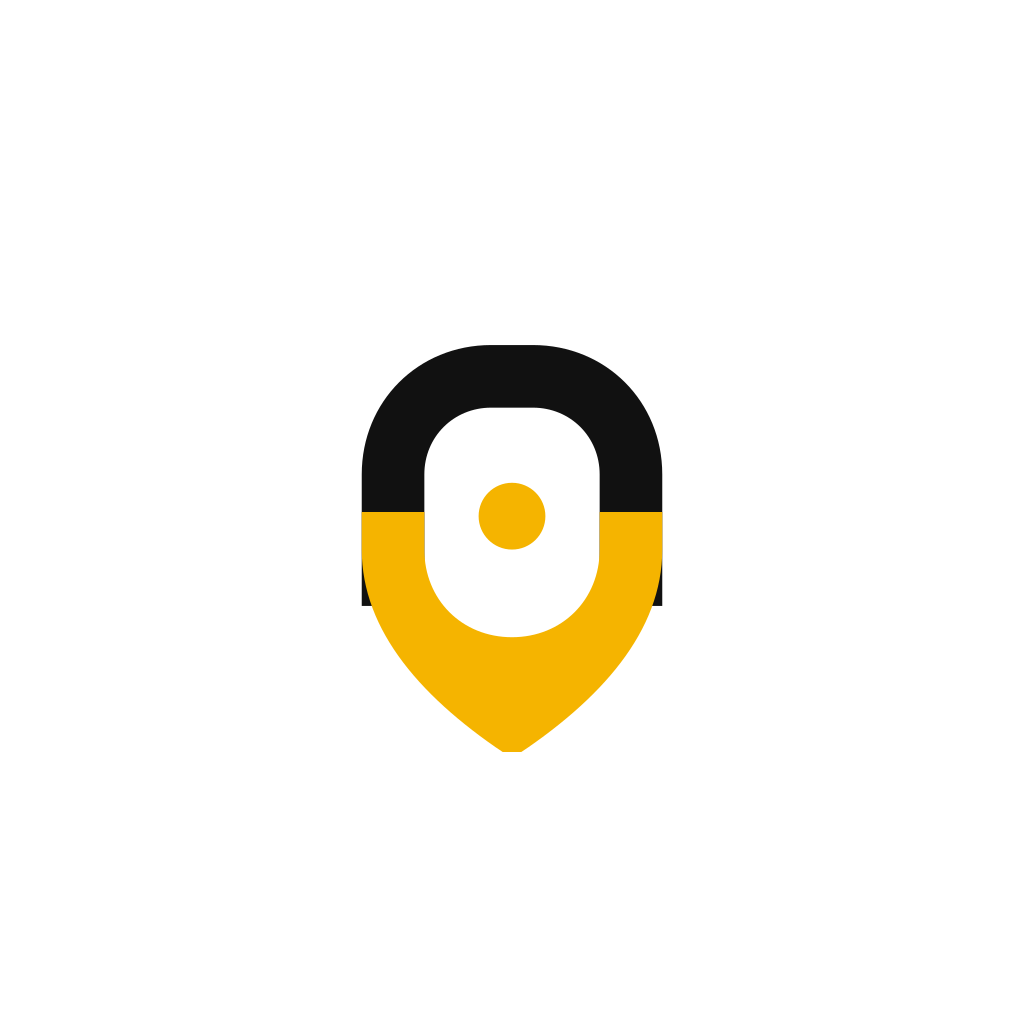
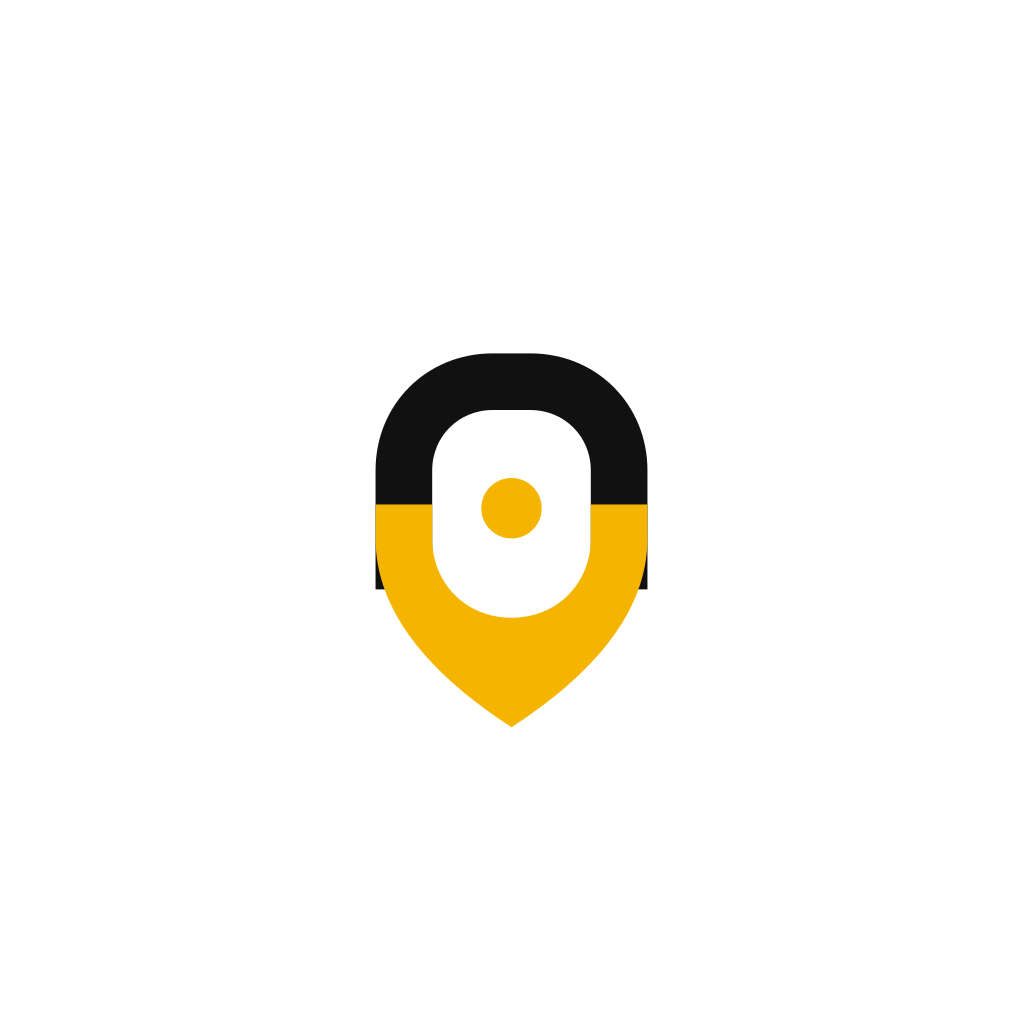
v0.1.2: rutas sin ambiguedad, G oficial de Google e isotipo entero
Los tres reportes del usuario probando la 0.1.1 en su movil:

- 'Unmatched Route' al entrar + 'se queda cargando' al reabrir: TRES pantallas
  index reclamaban la ruta raiz (app/index + (cliente)/index + (conductor)/
  index) y el guardia ademas no redirigia desde la raiz. Ahora los grupos
  tienen pantallas CON NOMBRE (pedir / ofertas), el guardia redirige siempre
  que no estes en tu grupo, y el destino es una ruta concreta.
- El isotipo se veia cortado: la punta del pin baja hasta y=233 y el viewBox
  220 de la web lo recortaba al rasterizar (el navegador disimula el recorte;
  sharp no). Caja holgada y assets regenerados.
- Boton de Google como manda Google: fondo blanco, borde neutro y la G
  multicolor oficial en SVG; sin teñir con el morado de la marca a proposito.

diff --git a/mobile/components/GoogleButton.js b/mobile/components/GoogleButton.js
@@ -1,0 +1,61 @@
+import { ActivityIndicator, Pressable, StyleSheet, Text } from "react-native";
+import Svg, { Path } from "react-native-svg";
+import { colors, radius, spacing } from "../theme";
+
+/**
+ * Botón "Continuar con Google" según las guías de identidad de Google: fondo
+ * blanco, borde suave, la "G" multicolor oficial y texto neutro. No se tiñe
+ * con el morado de la marca a propósito — Google exige su propia apariencia.
+ */
+function GoogleG({ size = 20 }) {
+  return (
+    <Svg width={size} height={size} viewBox="0 0 18 18">
+      <Path
+        fill="#4285F4"
+        d="M17.64 9.2c0-.637-.057-1.251-.164-1.84H9v3.481h4.844a4.14 4.14 0 0 1-1.796 2.717v2.258h2.908c1.702-1.567 2.684-3.874 2.684-6.615z"
+      />
+      <Path
+        fill="#34A853"
+        d="M9 18c2.43 0 4.467-.806 5.956-2.18l-2.908-2.259c-.806.54-1.837.86-3.048.86-2.344 0-4.328-1.584-5.036-3.711H.957v2.332A8.997 8.997 0 0 0 9 18z"
+      />
+      <Path
+        fill="#FBBC05"
+        d="M3.964 10.71A5.41 5.41 0 0 1 3.682 9c0-.593.102-1.17.282-1.71V4.958H.957A8.996 8.996 0 0 0 0 9c0 1.452.348 2.827.957 4.042l3.007-2.332z"
+      />
+      <Path
+        fill="#EA4335"
+        d="M9 3.58c1.321 0 2.508.454 3.44 1.345l2.582-2.58C13.463.891 11.426 0 9 0A8.997 8.997 0 0 0 .957 4.958L3.964 7.29C4.672 5.163 6.656 3.58 9 3.58z"
+      />
+    </Svg>
+  );
+}
+
+export default function GoogleButton({ onPress, loading, title = "Continuar con Google" }) {
+  return (
+    <Pressable
+      onPress={onPress}
+      disabled={loading}
+      style={({ pressed }) => [styles.button, pressed && { backgroundColor: "#F8F9FA" }]}
+    >
+      {loading ? <ActivityIndicator color={colors.mutedForeground} /> : <GoogleG />}
+      <Text style={styles.text}>{title}</Text>
+    </Pressable>
+  );
+}
+
+const styles = StyleSheet.create({
+  button: {
+    flexDirection: "row",
+    alignItems: "center",
+    justifyContent: "center",
+    gap: spacing.md,
+    backgroundColor: "#FFFFFF",
+    borderWidth: 1,
+    borderColor: "#DADCE0",
+    borderRadius: radius.full,
+    paddingVertical: 13,
+    minHeight: 48,
+  },
+  // El texto del botón de Google es gris oscuro neutro, no del color de marca.
+  text: { fontSize: 15, fontWeight: "600", color: "#3C4043" },
+});

diff --git a/mobile/app/_layout.js b/mobile/app/_layout.js
@@ -28,10 +28,9 @@ function RootNavigation() {
     if (loading) return;
 
     const group = segments[0];
-    const inAuth = group === "(auth)";
 
     if (!session) {
-      if (!inAuth) router.replace("/(auth)/login");
+      if (group !== "(auth)") router.replace("/(auth)/login");
       return;
     }
 
@@ -39,9 +38,14 @@ function RootNavigation() {
     // grupo, y mandar a todo el mundo a cliente haría parpadear al conductor.
     if (!role) return;
 
+    // Redirigir SIEMPRE que no se esté ya en el grupo correcto — incluido el
+    // arranque en la raíz (group undefined): no redirigir ahí dejaba al usuario
+    // con sesión mirando "Abriendo ClicyVoy…" para siempre (bug real, 0.1.1).
+    // El destino es una pantalla CON NOMBRE, nunca el grupo a secas: tres
+    // rutas index disputándose "/" era lo que provocaba el "Unmatched Route".
     const target = role === "driver" ? "(conductor)" : "(cliente)";
-    if (inAuth || (group !== target && group !== undefined)) {
-      router.replace(role === "driver" ? "/(conductor)" : "/(cliente)");
+    if (group !== target) {
+      router.replace(role === "driver" ? "/(conductor)/ofertas" : "/(cliente)/pedir");
     }
   }, [session, role, loading, segments, router]);
 

diff --git a/mobile/app/(auth)/login.js b/mobile/app/(auth)/login.js
@@ -3,6 +3,7 @@ import { Image, View } from "react-native";
 import { Link } from "expo-router";
 import { supabase } from "../../lib/supabase";
 import { signInWithGoogle } from "../../lib/googleAuth";
+import GoogleButton from "../../components/GoogleButton";
 import { Body, Button, Caption, Card, ErrorText, Field, Screen } from "../../components/ui";
 import { colors, spacing } from "../../theme";
 
@@ -49,7 +50,7 @@ export default function Login() {
             scripts/generate-app-assets.mjs) — la marca es una sola. */}
         <Image
           source={require("../../assets/logo.png")}
-          style={{ width: 220, height: 54 }}
+          style={{ width: 220, height: 62 }}
           resizeMode="contain"
           accessibilityLabel="ClicyVoy"
         />
@@ -77,9 +78,7 @@ export default function Login() {
         />
         <ErrorText>{error}</ErrorText>
         <Button title="Entrar" onPress={submit} loading={loading} />
-        <Button
-          title="Continuar con Google"
-          variant="plain"
+        <GoogleButton
           onPress={async () => {
             const result = await signInWithGoogle();
             if (!result.ok && result.reason) setError(result.reason);

diff --git a/mobile/app/(conductor)/job/[id].js b/mobile/app/(conductor)/job/[id].js
@@ -211,7 +211,7 @@ export default function TrabajoActivo() {
             supabase.functions
               .invoke("send-push", { body: { mode: "driver_cancelled", order_id: id } })
               .catch(() => {});
-            router.replace("/(conductor)");
+            router.replace("/(conductor)/ofertas");
           } catch (err) {
             setError("No se pudo cancelar: " + (err.message || "error de conexión"));
           } finally {

diff --git a/mobile/lib/auth.js b/mobile/lib/auth.js
@@ -121,5 +121,5 @@ export const useAuth = () => useContext(AuthContext);
  *  entra en la app, se le trata como cliente (puede pedir servicios) y se le
  *  remite al panel web para administrar. */
 export function homeForRole(role) {
-  return role === "driver" ? "/(conductor)" : "/(cliente)";
+  return role === "driver" ? "/(conductor)/ofertas" : "/(cliente)/pedir";
 }

diff --git a/mobile/app/(cliente)/orders.js b/mobile/app/(cliente)/orders.js
@@ -82,7 +82,7 @@ export default function MisPedidos() {
       payment_method: order.payment_method,
     };
     await AsyncStorage.setItem("request_draft_v1", JSON.stringify({ form: draft, photos: [] }));
-    router.push("/(cliente)");
+    router.push("/(cliente)/pedir");
   };
 
   useEffect(() => {

diff --git a/mobile/app/(conductor)/_layout.js b/mobile/app/(conductor)/_layout.js
@@ -18,7 +18,7 @@ export default function ConductorLayout() {
       }}
     >
       <Tabs.Screen
-        name="index"
+        name="ofertas"
         options={{
           title: "Ofertas",
           tabBarIcon: ({ color, size }) => <Ionicons name="notifications-outline" size={size} color={color} />,

diff --git a/mobile/app/(cliente)/_layout.js b/mobile/app/(cliente)/_layout.js
@@ -18,7 +18,7 @@ export default function ClienteLayout() {
       }}
     >
       <Tabs.Screen
-        name="index"
+        name="pedir"
         options={{
           title: "Pedir",
           tabBarIcon: ({ color, size }) => <Ionicons name="add-circle-outline" size={size} color={color} />,
